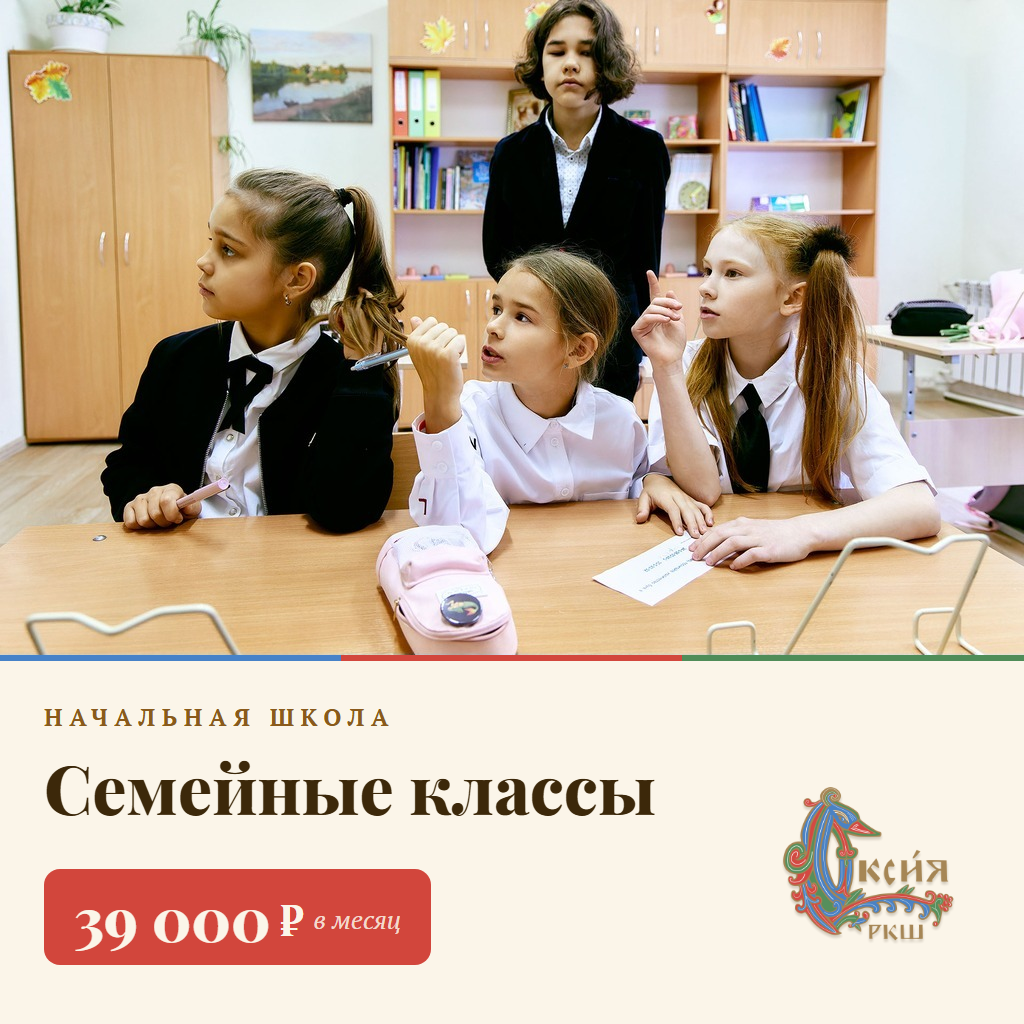
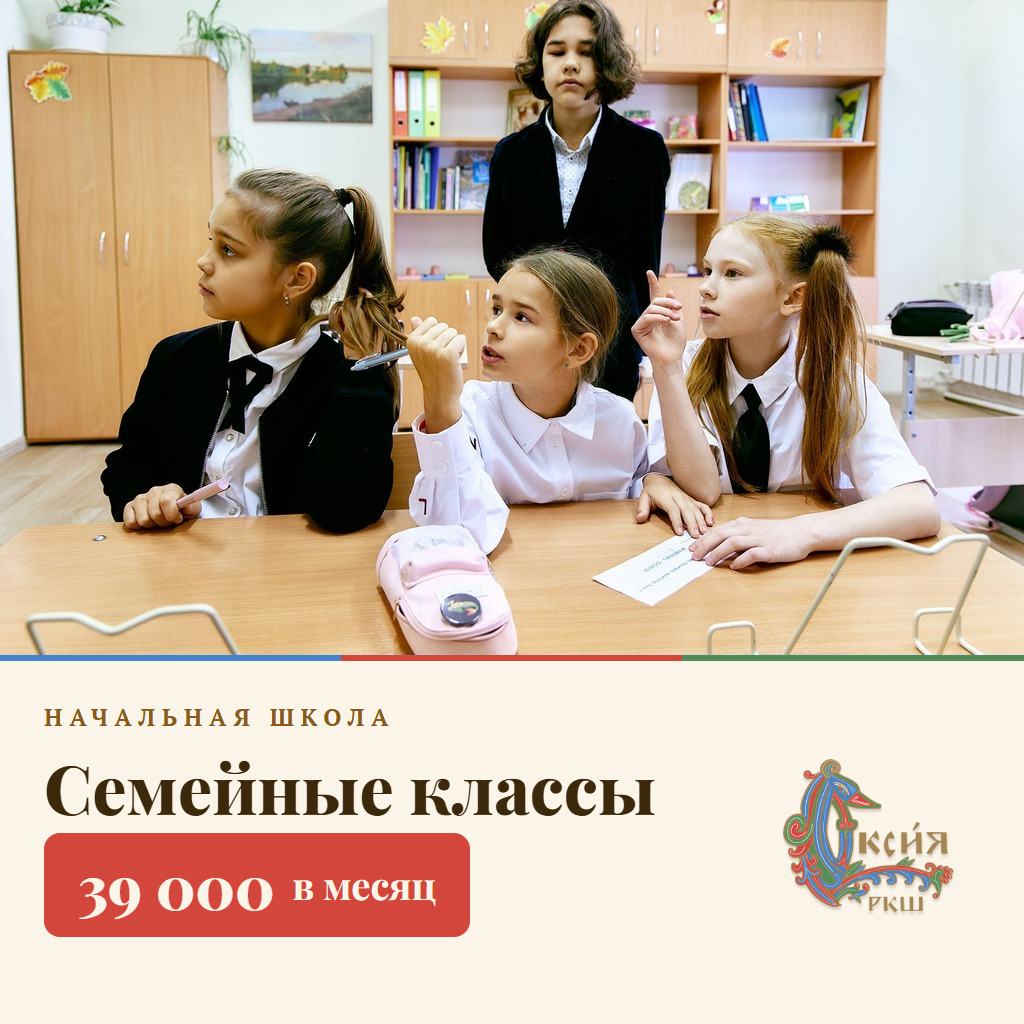
Финал на проверку: один вариант карточки товара и одной истории
Убран неиспользуемый вариант истории. В карточке товара: убран доминирующий
значок ₽, «в месяц» крупнее и без курсива, плашка цены отцентрована и не
прижата к нижнему краю.

Changed region(s): [[0.0312, 0.8125, 0.4688, 0.9688], [0.75, 0.75, 0.9375, 0.9375]]

diff --git a/card-preview/index.html b/card-preview/index.html
@@ -3,7 +3,7 @@
 <head>
 <meta charset="utf-8">
 <meta name="viewport" content="width=device-width, initial-scale=1">
-<title>ОКСИЯ — новый дизайн, вариант 1</title>
+<title>ОКСИЯ — новый дизайн, финал</title>
 <style>
   :root{ --cream:#FBF5E9; --ink:#3A3226; --bronze:#8E6322; --blue:#3B5A75; --border:#E3D8BF; }
   *{box-sizing:border-box; margin:0; padding:0;}
@@ -12,39 +12,21 @@
   h1{ font-size:22px; color:var(--bronze); margin-bottom:6px; }
   p.lead{ color:#6B6353; margin-bottom:24px; }
   h2{ font-size:16px; color:#6B6353; margin:30px 0 10px; text-transform:uppercase; letter-spacing:.06em; }
-  .pair{ display:flex; gap:14px; flex-wrap:wrap; }
-  .pair .col{ flex:1 1 260px; }
-  .colcap{ font-size:13px; color:var(--bronze); font-weight:700; margin-bottom:6px; text-align:center; }
   .card{ border:1px solid var(--border); border-radius:14px; overflow:hidden; background:var(--cream);
     box-shadow:0 10px 30px rgba(90,70,30,.14); }
   .card img{ display:block; width:100%; height:auto; }
-  .note{ background:#FFF; border:1px solid var(--border); border-radius:10px; padding:16px 18px; margin-top:28px; }
-  .note b{ color:var(--bronze); }
 </style>
 </head>
 <body>
 <div class="wrap">
-  <h1>Новый дизайн — вариант 1</h1>
-  <p class="lead">По одной карточке товара и одной истории, на согласование. Логотип целиком, цвета из него (синий/красный/зелёный), крупнее и ярче текст.</p>
+  <h1>Новый дизайн — финал на проверку</h1>
+  <p class="lead">Один вариант карточки товара и один вариант истории, с учётом всех правок.</p>
 
   <h2>Товар — Начальная школа</h2>
-  <div class="card"><img src="card-sample-01.png?v=6" alt="Карточка товара, вариант 1"></div>
+  <div class="card"><img src="card-sample-01.png?v=7" alt="Карточка товара"></div>
 
-  <h2>История — Семейные классы: два варианта яркости</h2>
-  <div class="pair">
-    <div class="col">
-      <div class="colcap">А — спокойный (как сейчас)</div>
-      <div class="card"><img src="story-sample-01.png?v=6" alt="История, вариант А, спокойный"></div>
-    </div>
-    <div class="col">
-      <div class="colcap">Б — ярче (красный акцент + насыщенная лазурь)</div>
-      <div class="card"><img src="story-sample-01-bright.png?v=6" alt="История, вариант Б, яркий"></div>
-    </div>
-  </div>
-
-  <div class="note">
-    <p><b>Вопрос:</b> в варианте Б слово «классы», плашка слева и нижняя строка — красные, облака — более насыщенный лазурный синий. В варианте А тон спокойнее (приглушённый синий/зелёный, пастельные волны). Какой ближе — спокойный или яркий? Можно взять и что-то среднее.</p>
-  </div>
+  <h2>История — Семейные классы</h2>
+  <div class="card"><img src="story-sample-01-bright.png?v=7" alt="История, обложка"></div>
 </div>
 </body>
 </html>

diff --git a/story-preview/_build/card-template.html b/story-preview/_build/card-template.html
@@ -35,14 +35,14 @@
     color:var(--ink);margin-top:18px;max-width:900px;}
 
   .row{display:flex;align-items:flex-end;justify-content:space-between;margin-top:30px;
-    position:relative;bottom:46px;}
+    position:relative;bottom:74px;}
 
-  .price{display:inline-flex;align-items:center;gap:10px;background:var(--red);
-    color:var(--cream);border-radius:16px;padding:18px 30px;line-height:1;
+  .price{display:inline-flex;align-items:center;justify-content:center;gap:18px;background:var(--red);
+    color:var(--cream);border-radius:16px;padding:22px 34px;line-height:1;
     font-family:"Playfair Display",serif;font-weight:800;font-size:46px;}
   .price .num{font-size:60px;}
-  .price .per{font-family:"PT Serif",serif;font-weight:400;font-style:italic;font-size:26px;
-    line-height:1;color:rgba(251,245,233,.86);position:relative;top:2px;}
+  .price .per{font-family:"Playfair Display",serif;font-weight:700;font-style:normal;font-size:38px;
+    line-height:1;color:var(--cream);}
 
   .logo{height:158px;width:auto;position:relative;bottom:20px;}
 </style>
@@ -54,7 +54,7 @@
     <div class="kick">Начальная школа</div>
     <div class="title">Семейные классы</div>
     <div class="row">
-      <div class="price"><span class="num">39 000</span> ₽<span class="per">в месяц</span></div>
+      <div class="price"><span class="num">39 000</span><span class="per">в месяц</span></div>
       <img class="logo" src="oksia-logo.png" alt="Оксия">
     </div>
   </div>
